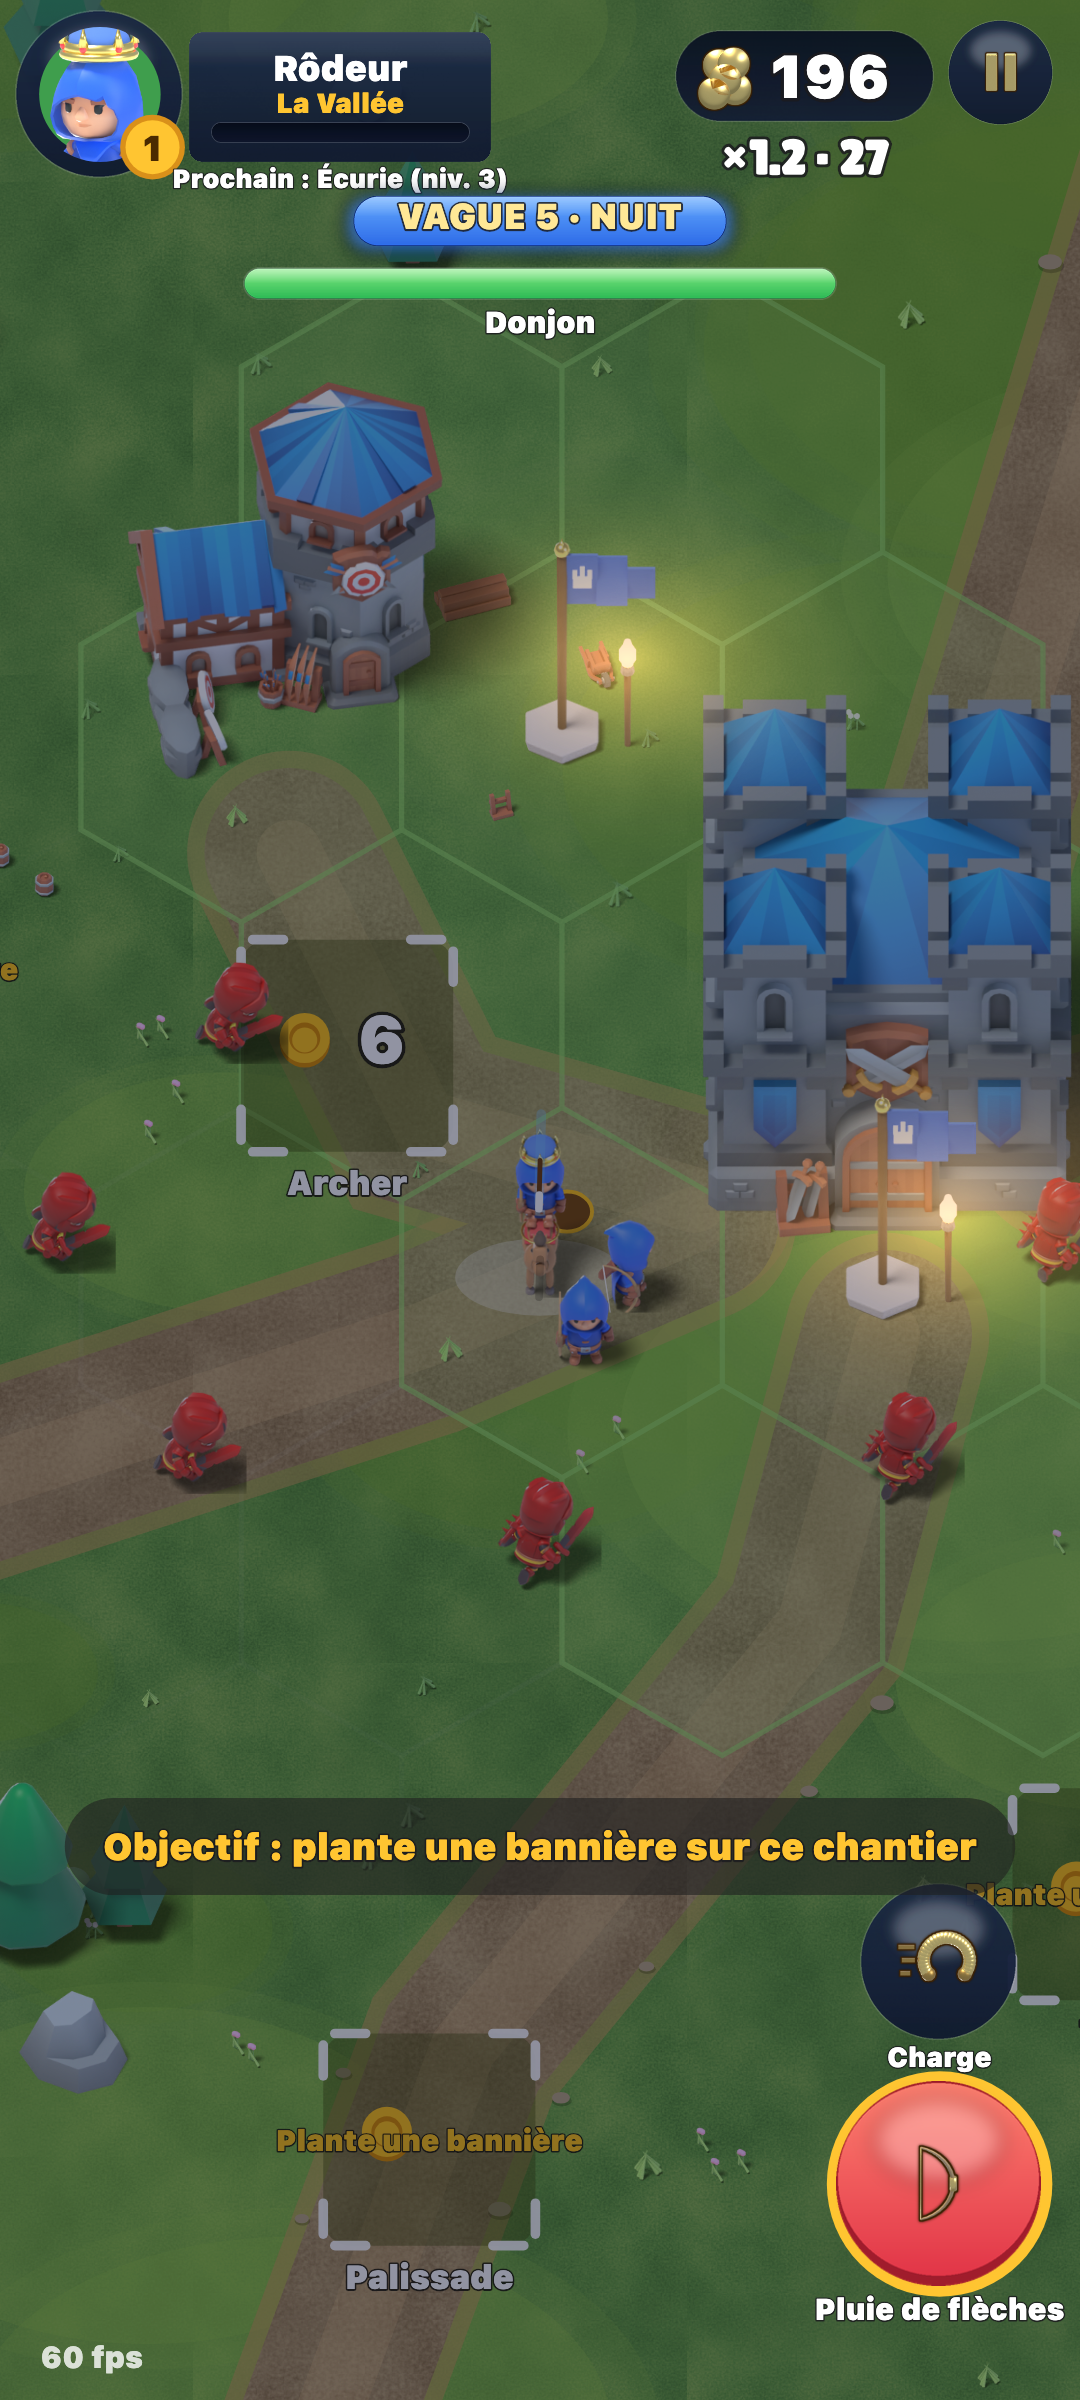
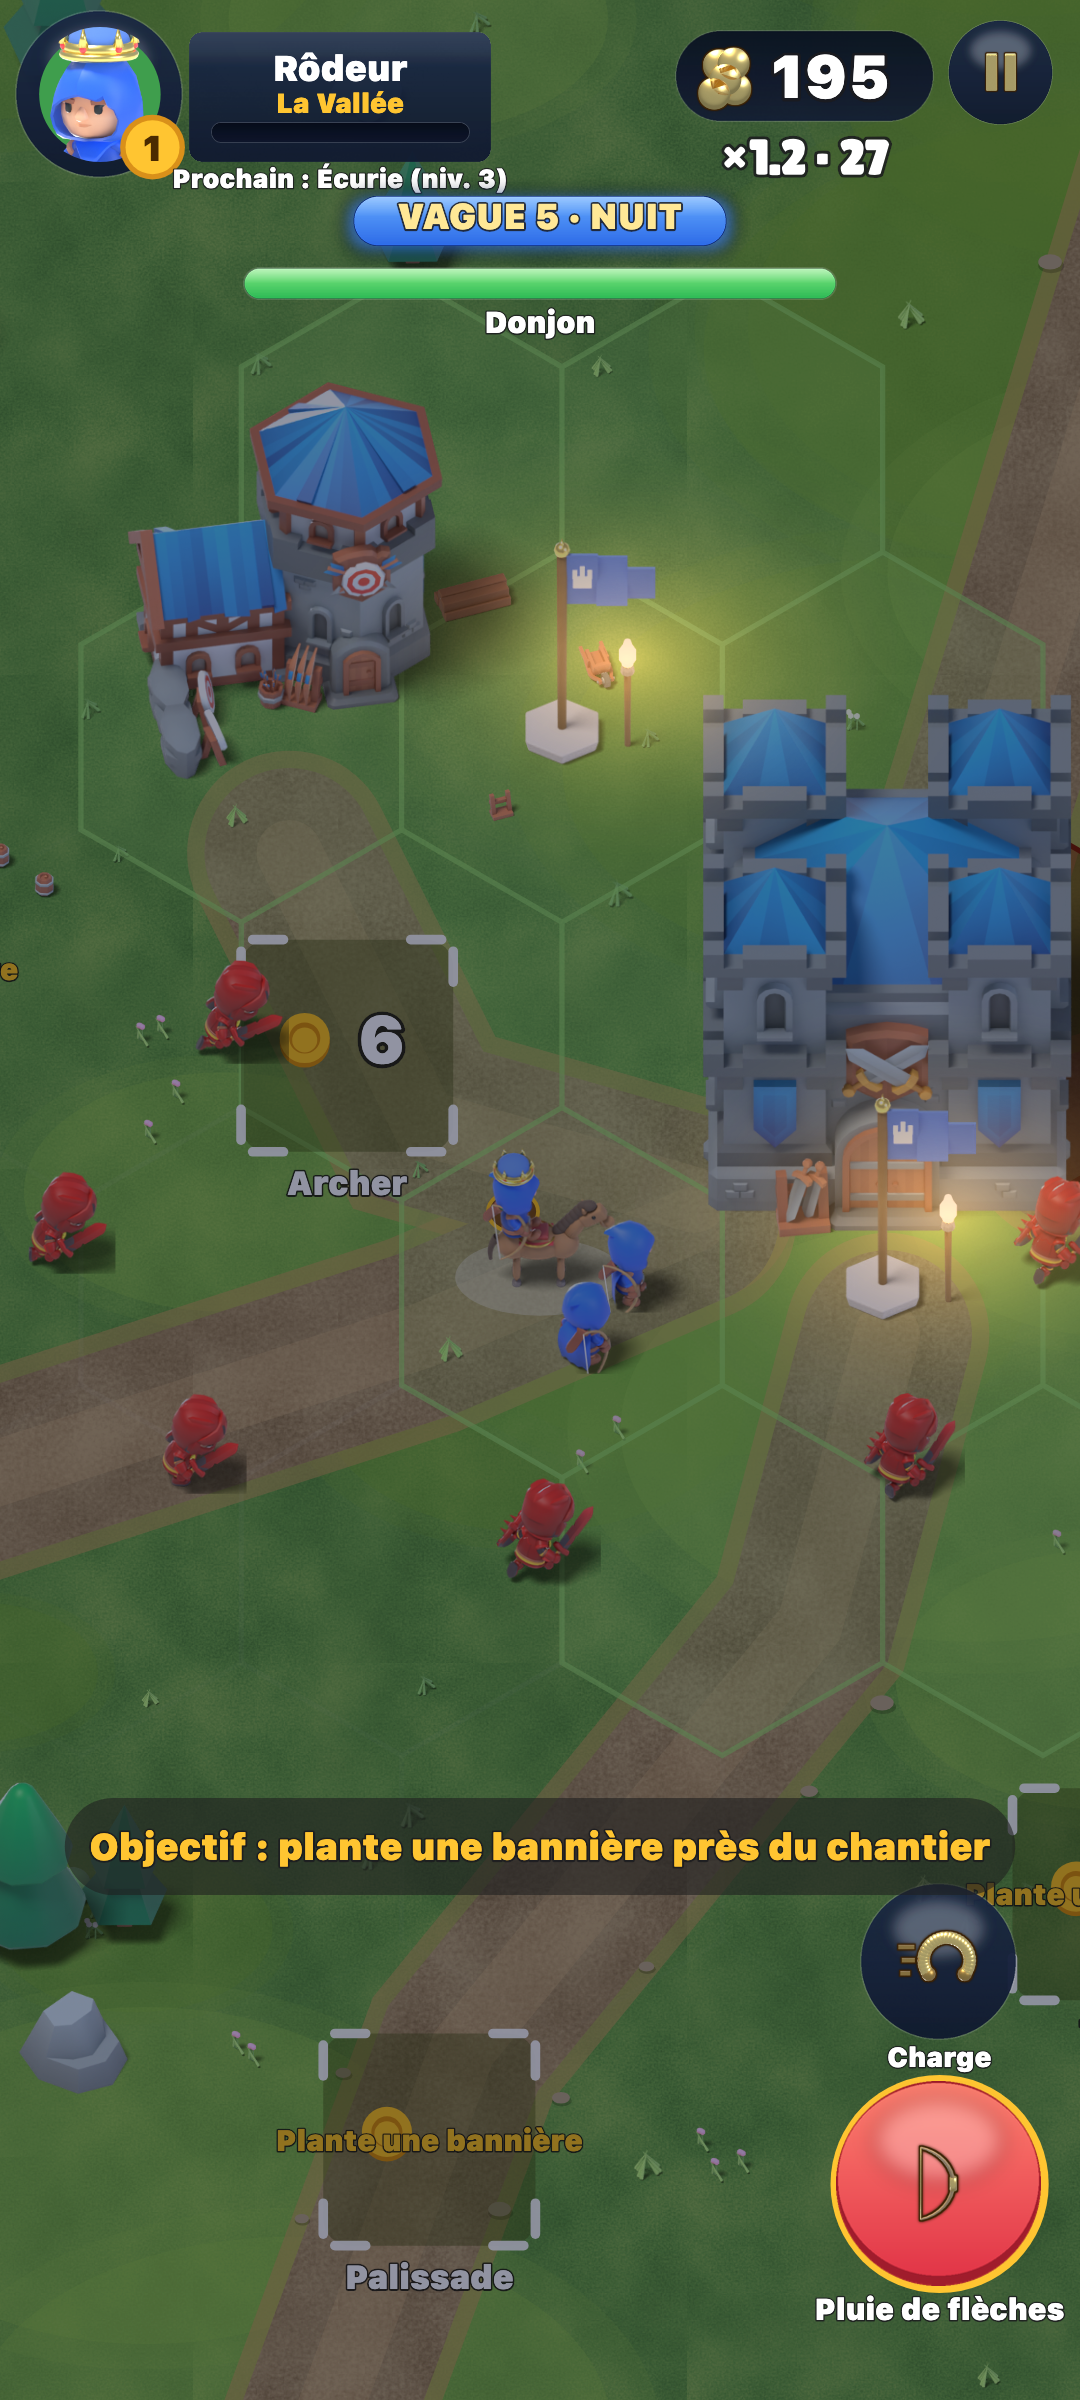
v1.0.1 : compteur fps masqué (réglage), loups alliés à 1 PV et sauvegardés, lueur d'impact des flèches ardentes, ralenti du tutoriel limité à la vague 1, toast sous le bandeau de vague, texte d'objectif, captures store refaites

diff --git a/composeApp/src/commonMain/kotlin/com/hexcrown/game/Game.kt b/composeApp/src/commonMain/kotlin/com/hexcrown/game/Game.kt
@@ -219,6 +219,7 @@ const val FX_ARROW = 9 // ballistic arrow of the rain: up off-screen, down on it
 const val FX_STUCK = 10
 const val FX_RUNE = 11
 const val FX_RISE = 12 // light motes rising around the keep (Réparation)
+const val FX_FIREHIT = 14 // orange flash where a burning arrow lands
 const val FX_COINUP = 13 // a small coin rising from a hex: passive income
 
 /** Class colours of the effects: warrior gold, ranger green, builder light gold. */
@@ -1205,6 +1206,16 @@ class Game {
 
     // ---------------------------------------------------------------- relics, combo, day cycle
 
+    /** Removes one squad member; the last one takes its slot. */
+    private fun removeSquadAt(i: Int) {
+        val l = squad - 1
+        val x = ax[i]; val y = ay[i]
+        ax[i] = ax[l]; ay[i] = ay[l]; aDir[i] = aDir[l]; aShoot[i] = aShoot[l]; acd[i] = acd[l]; aWolf[i] = aWolf[l]; aFaceRight[i] = aFaceRight[l]
+        ax[l] = x; ay[l] = y // kept for the death puff
+        aWolf[l] = false
+        squad = l
+    }
+
     private fun applyRelic(i: Int) {
         relics[i] = true
         Relics.markSeen(i)
@@ -1332,7 +1343,7 @@ class Game {
 
     /** 0 move, 1 gold, 2 banner, 3 build, 4 charge, 5 last words (OK button), 6 done (persisted). Never a forced pause. */
     var tutorial = TUTO_DONE
-    private val tutoSlow get() = if (tutorial < TUTO_DONE) 0.7f else 1f
+    private val tutoSlow get() = if (tutorial < TUTO_DONE && wave <= 1) 0.7f else 1f
     private fun updateTutorial() {
         if (tutorial >= 5 || state != STATE_PLAY) return
         val next = when (tutorial) {
@@ -1399,7 +1410,8 @@ class Game {
         sb.append(";R")
         for (r in relics) sb.append(if (r) 1 else 0)
         sb.append(':').append(combo).append(':').append(if (raining) 1 else 0).append(':').append(draftsNoRare).append(':').append(if (nextRare) 1 else 0)
-            .append(':').append(if (freeRevive) 1 else 0).append(':').append(wolvesTamedRun).append(':').append(if (relicOpen || relicDelay > 0f) 1 else 0)
+            .append(':').append(if (freeRevive) 1 else 0).append(':').append(wolvesTamedRun).append(':').append(if (relicOpen || relicDelay > 0f) 1 else 0).append(':')
+        for (i in 0 until squad) sb.append(if (aWolf[i]) 1 else 0)
         return sb.toString()
     }
 
@@ -1467,6 +1479,7 @@ class Game {
                 for (i in 0 until RELIC_COUNT) relics[i] = r[0].getOrNull(i) == '1'
                 combo = r[1].toInt(); raining = r[2] == "1"; draftsNoRare = r[3].toInt(); nextRare = r[4] == "1"; freeRevive = r[5] == "1"; wolvesTamedRun = r[6].toInt()
                 if (r[7] == "1") relicDelay = 0.01f // a draft was waiting when the app left
+                for (i in 0 until squad) aWolf[i] = r.getOrNull(8)?.getOrNull(i) == '1'
             }
             nightAmt = when (dayPhase) { 2 -> 1f; 1 -> 0.45f; else -> 0f }
             rainAmt = if (raining) 1f else 0f
@@ -1762,7 +1775,12 @@ class Game {
             if (acd[i] <= 0f) {
                 if (aWolf[i]) { // tamed wolf: bites what is next to it
                     val w = nearestEnemy(ax[i], ay[i], 70f)
-                    if (w >= 0) { hitEnemy(w, 20f * dmgMult); aDir[i] = dirIndex(enemies[w].x - ax[i], enemies[w].y - ay[i]); aShoot[i] = 0.2f; acd[i] = 0.8f } else acd[i] = 0.15f
+                    if (w >= 0) {
+                        val foe = enemies[w]
+                        hitEnemy(w, 20f * dmgMult); aDir[i] = dirIndex(foe.x - ax[i], foe.y - ay[i]); aShoot[i] = 0.2f; acd[i] = 0.8f
+                        // 1 HP: whoever it bites and can strike back kills it
+                        if (foe.active && foe.atkCd <= 0f) { foe.atkCd = 1f; foe.swing = 1f; removeSquadAt(i); burst(ax[squad], ay[squad], 20f, 8, 0xFFD8262BL, 160f); return }
+                    } else acd[i] = 0.15f
                     continue
                 }
                 val t = nearestEnemy(ax[i], ay[i], 280f * torchRange(ax[i], ay[i]))
@@ -2027,6 +2045,7 @@ class Game {
                 if (alive) {
                     val blocked = e.kind == KIND_SHIELD && a.dx * e.mdx + a.dy * e.mdy < -0.3f
                     hitEnemy(a.target, if (blocked) a.dmg * 0.25f else a.dmg)
+                    if (fireActive) spawnFx(FX_FIREHIT, a.x, a.y - a.z, 0.2f, 0xFFFF8A2AL)
                     sparks(a.tx, a.ty, a.tz)
                     if (blocked) burst(a.tx, a.ty, a.tz, 4, 0xFFFFFFFFL, 160f)
                 }

diff --git a/composeApp/src/commonMain/kotlin/com/hexcrown/game/Renderer.kt b/composeApp/src/commonMain/kotlin/com/hexcrown/game/Renderer.kt
@@ -219,6 +219,7 @@ class Renderer(private val measurer: TextMeasurer, private val density: Float) {
 
     private val keys = LongArray(2048)
     private val flashFilter = ColorFilter.tint(Color(0xD0FFFFFF), BlendMode.SrcAtop)
+    private val allyTint = ColorFilter.tint(Color(0x556FB7FF), BlendMode.SrcAtop)
     private val dimFilter = ColorFilter.tint(Color(0xB0808080), BlendMode.SrcAtop)
 
     /** Pre-rendered 3D sprite atlases; null until loaded. */
@@ -980,6 +981,10 @@ class Renderer(private val measurer: TextMeasurer, private val density: Float) {
 
     private fun DrawScope.drawArcher(g: Game, i: Int) {
         val sp = sprites ?: return
+        if (g.aWolf[i]) { // tamed wolf: enemy model with a blue cast so it reads as ours
+            sprite(sp.wolf, SpriteData.wolf, walkFrame(g.time * 12f, 6), g.aDir[i], g.ax[i], g.ay[i], UNIT_SCALE, allyTint)
+            return
+        }
         val col = when {
             g.aShoot[i] > 0f -> 7 + ((0.32f - g.aShoot[i]) / 0.32f * 3f).toInt().coerceIn(0, 2)
             g.aMoving[i] -> 1 + walkFrame(g.aWalk[i], 6)
@@ -1178,6 +1183,7 @@ class Renderer(private val measurer: TextMeasurer, private val density: Float) {
                 FX_PUFF -> if (!ground) fxDraw(fi.puff, (k * 7.99f).toInt(), f.x, f.y - 10f, 100f * f.r1, 100f * f.r1, 0f, 0.85f, tn, false)
                 FX_SPARKLE -> if (!ground) fxDraw(fi.sparkle, (k * 5.99f).toInt(), f.x, f.y - f.z, 34f, 34f, 0f, 1f, tn, true)
                 FX_SPIRAL -> if (!ground) fxDraw(fi.glow, 0, f.x, f.y - 30f, 28f, 28f, 0f, 1f - k, tn, true)
+                FX_FIREHIT -> if (!ground) fxDraw(fi.glow, 0, f.x, f.y, 90f, 90f, 0f, 1f - k, tn, true)
                 FX_COINUP -> if (!ground) { val sp = sprites; if (sp != null) sprite(sp.coinFlat, SpriteData.coinFlat, 0, 0, f.x, f.y - f.z, 0.8f, null, 1f - k) }
                 FX_RISE -> if (!ground) fxDraw(fi.glow, 0, f.x, f.y - f.z, 20f, 20f, 0f, if (k > 0.66f) (1f - k) * 3f else 1f, tn, true)
                 FX_ARROW -> if (!ground) {
@@ -1454,14 +1460,14 @@ class Renderer(private val measurer: TextMeasurer, private val density: Float) {
             val a = Ach.age
             val slide = if (a < 0.25f) expoOut(a / 0.25f) else if (a > 2.1f) 1f - (a - 2.1f) / 0.3f else 1f
             val bh = 56f * density
-            val ty = topInset + 6f * u - (1f - slide) * (bh + 20f)
-            rr(HUD_BG, 20f * u, ty, w - 40f * u, bh, 16f * u)
+            val ty = top + 136f * u - (1f - slide) * 14f * u // under the wave band, never over the top HUD
+            rr(HUD_BG.copy(alpha = HUD_BG.alpha * slide), 20f * u, ty, w - 40f * u, bh, 16f * u)
             if (ui != null) img(ui.trophy, 20f * u + bh / 2f, ty + bh / 2f, bh * 0.34f)
             label((titleText ?: text).str(L["ach.$ach"]), w / 2f + bh * 0.3f, ty + bh * 0.34f, 18f * u, WHITE)
             label(text.str(L.f("ach.reward", Ach.reward(ach))), w / 2f + bh * 0.3f, ty + bh * 0.72f, 12f * u, GOLD)
         }
         // fps
-        label(text.str(fpsLabel(g.fps)), 34f * u, h - 16f * u, 11f * u, Color(0xCCFFFFFF), outlined = false)
+        if (Prefs.showFps) label(text.str(fpsLabel(g.fps)), 34f * u, h - 16f * u, 11f * u, Color(0xCCFFFFFF), outlined = false)
         // joystick
         val inp = g.input
         if (inp.touching && g.state == STATE_PLAY) {

diff --git a/composeApp/src/commonMain/kotlin/com/hexcrown/game/L.kt b/composeApp/src/commonMain/kotlin/com/hexcrown/game/L.kt
@@ -144,7 +144,8 @@ private val TEXTS: Map<String, Array<String>> = mapOf(
     "tuto.5" to arrayOf("Tiens la ligne. Le boss arrive à la vague 5.", "Hold the line. The boss comes at wave 5."),
     "hud.banner" to arrayOf("Bannière", "Banner"),
     "hud.charge" to arrayOf("Charge", "Charge"),
-    "obj.banner" to arrayOf("Objectif : plante une bannière sur ce chantier", "Goal: plant a banner on this site"),
+    "obj.banner" to arrayOf("Objectif : plante une bannière près du chantier", "Goal: plant a banner near the site"),
+    "show.fps" to arrayOf("Afficher les fps", "Show fps"),
     "pad.fire" to arrayOf("Éteins le feu", "Put out the fire"),
     "pad.needbanner" to arrayOf("Plante une bannière", "Plant a banner"),
     "ability" to arrayOf("Capacité", "Ability"),

diff --git a/composeApp/src/commonMain/kotlin/com/hexcrown/game/Menus.kt b/composeApp/src/commonMain/kotlin/com/hexcrown/game/Menus.kt
@@ -405,6 +405,7 @@ fun SettingsPanel(onReset: () -> Unit, onClose: () -> Unit) {
         KitToggle(L["music"], !Prefs.musicOff) { Prefs.musicOff = !it; Audio.applySettings(); tick++ }
         KitToggle(L["vibration"], !Prefs.vibrationOff) { Prefs.vibrationOff = !it; tick++ }
         KitToggle(L["fluid"], !Prefs.cap60) { Prefs.cap60 = !it; tick++ }
+        KitToggle(L["show.fps"], Prefs.showFps) { Prefs.showFps = it; tick++ }
         GText(L["language"], 15, Pal.ink, title = true, shadow = false)
         Row(Modifier.fillMaxWidth(), horizontalArrangement = Arrangement.spacedBy(4.dp)) {
             for (l in 0..1) Box(

diff --git a/composeApp/src/commonMain/kotlin/com/hexcrown/game/Platform.kt b/composeApp/src/commonMain/kotlin/com/hexcrown/game/Platform.kt
@@ -22,6 +22,9 @@ object Prefs {
     var sfxFull: Boolean
         get() = Storage.loadInt("sfx_full") == 1
         set(v) = Storage.saveInt("sfx_full", if (v) 1 else 0)
+    var showFps: Boolean
+        get() = Storage.loadInt("show_fps") == 1
+        set(v) = Storage.saveInt("show_fps", if (v) 1 else 0)
     var vibrationOff: Boolean
         get() = Storage.loadInt("vib_off") == 1
         set(v) = Storage.saveInt("vib_off", if (v) 1 else 0)
